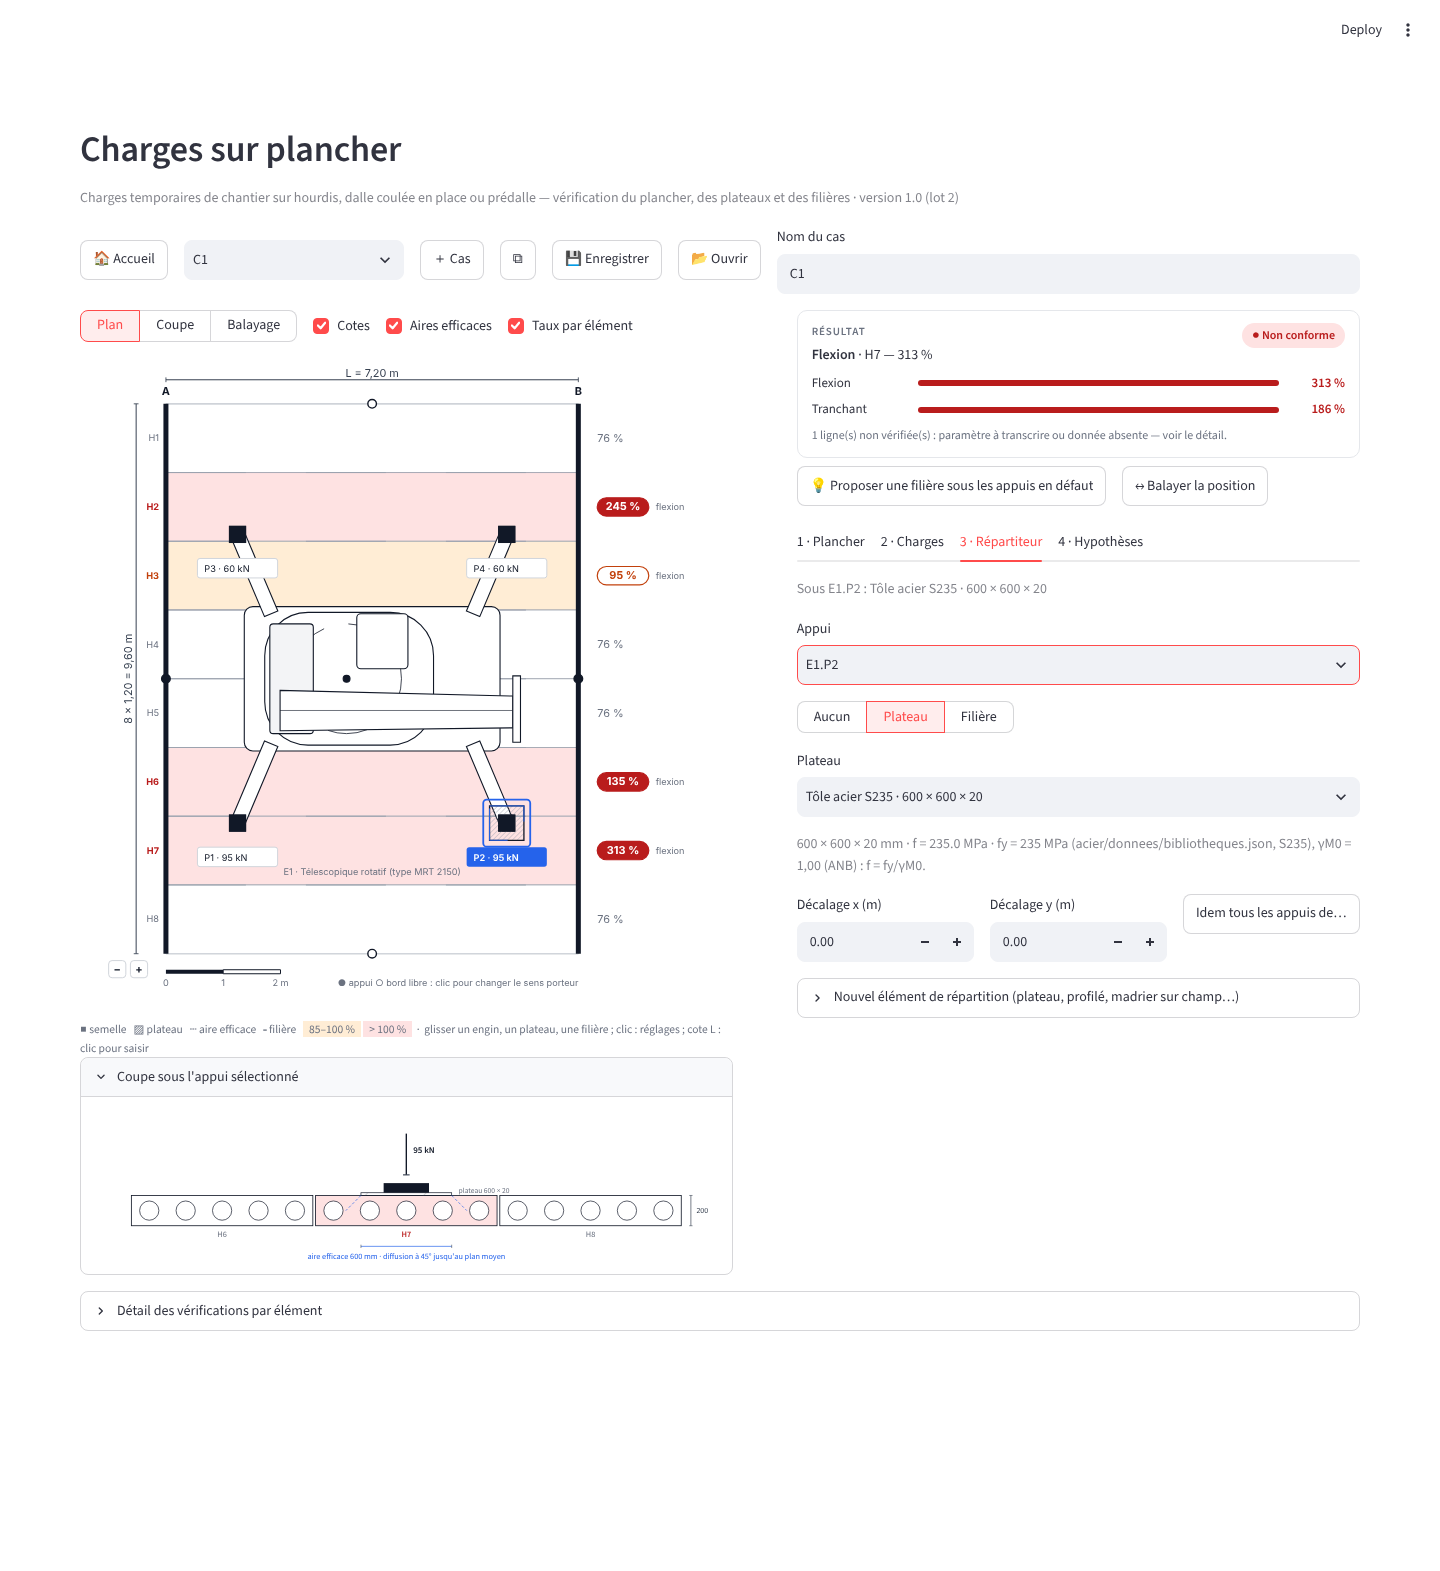
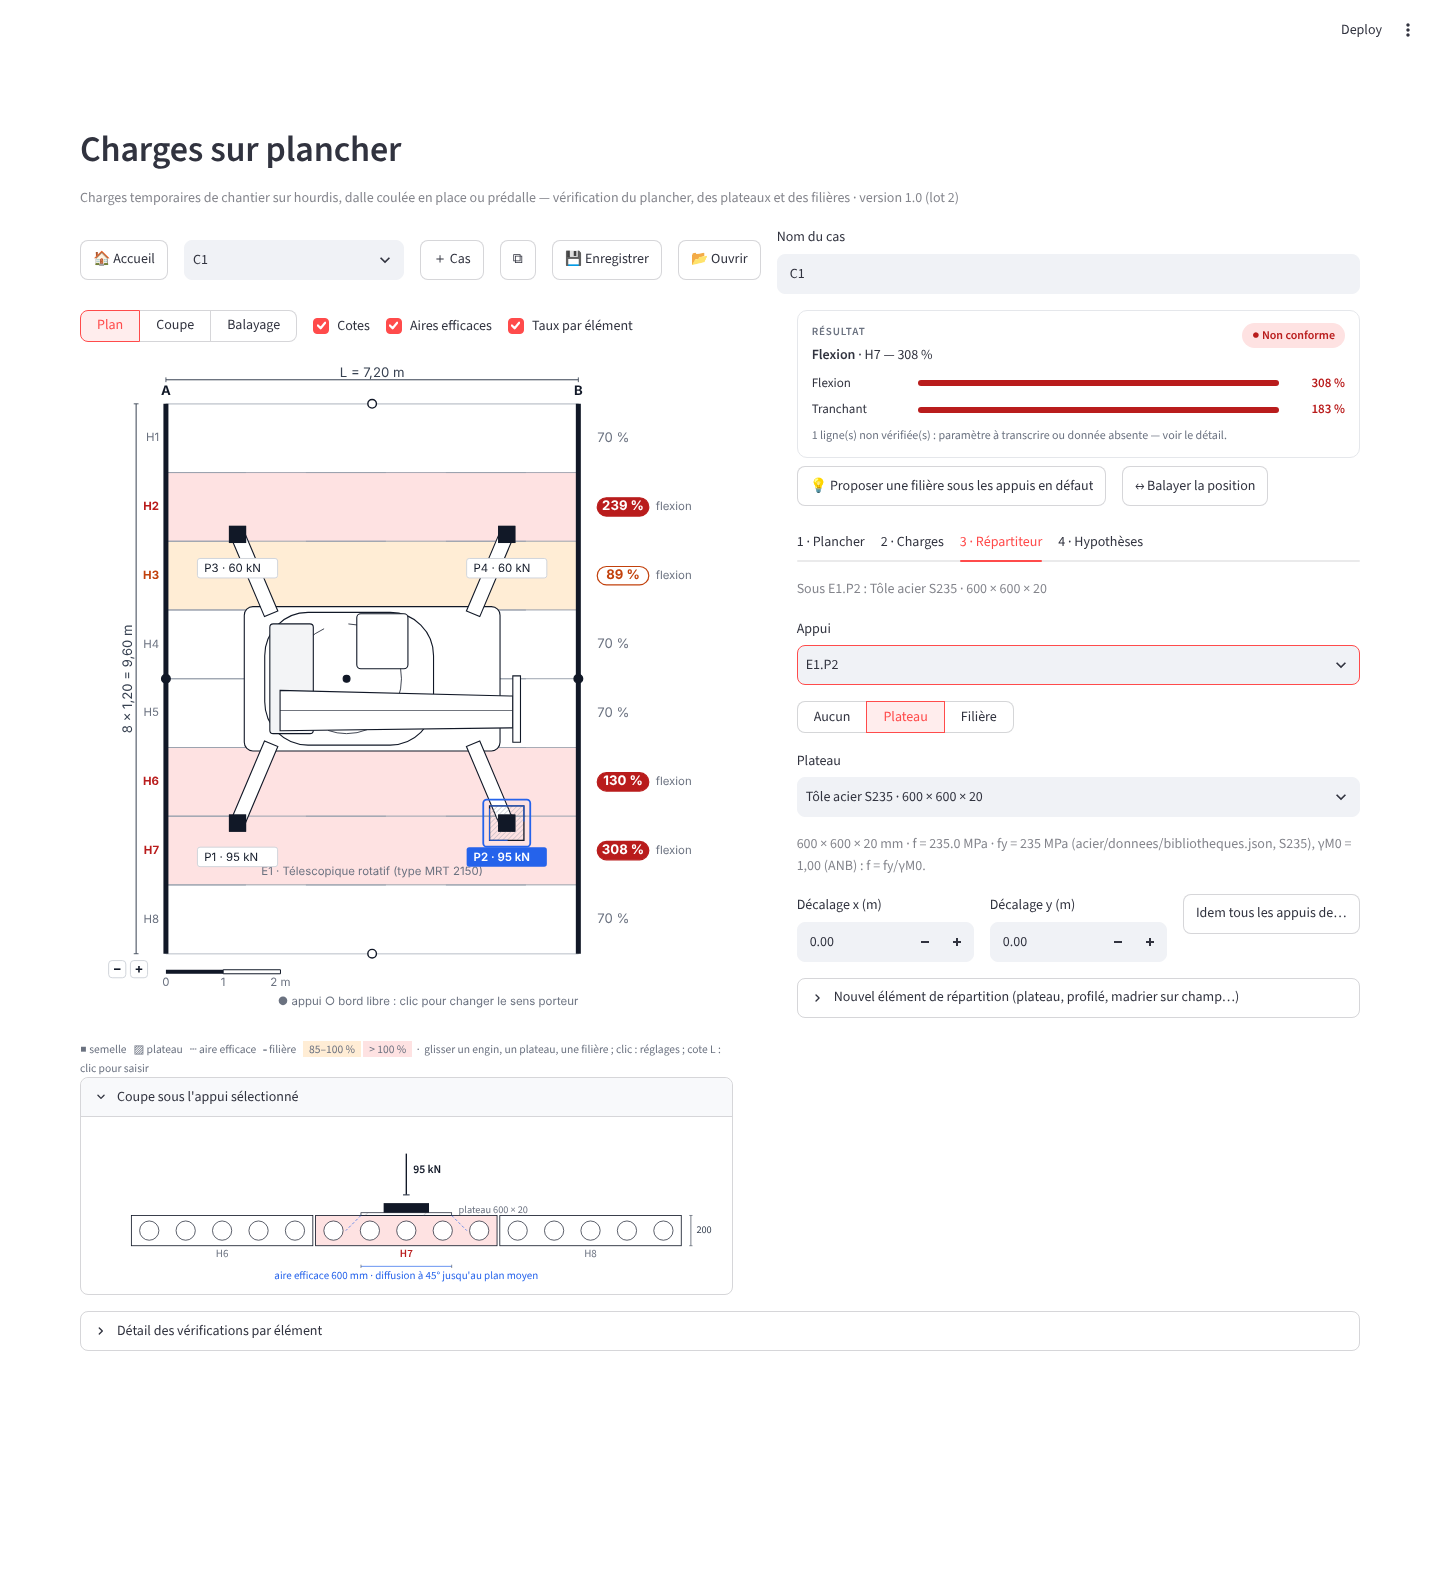
Charges sur plancher : captures finales PC / tablette / téléphone sur la règle P-2, glisser du harnais à l'échelle du plan
Les trois images de docs/plancher/images (ecran_pc, ecran_tablette,
ecran_telephone) sont recapturées sur le code final : taux à l'ELU
γG/γQ, textes agrandis, légende des appuis sous l'échelle, fiche de
hourdis. Le jeu complet (sept états × quatre largeurs) est tenu.

tools/captures_plancher.js : le glissement de l'engin vaut 0,8 m du plan
et non 60 px — à 1024 et 390 px, 60 px valaient 1,5 m et un
stabilisateur sortait du plancher (refus légitime du moteur, faux rouge
du harnais, classé « le harnais suit »).

Claude-Session: https://claude.ai/code/session_01LanTzD41YbMBGsnqoqM2dE

diff --git a/tools/captures_plancher.js b/tools/captures_plancher.js
@@ -101,8 +101,13 @@ async function preparer(page, etat) {
     await el.scrollIntoViewIfNeeded(); await page.waitForTimeout(400);
     const bb = await el.boundingBox();
     const cx = bb.x + bb.width / 2, cy = bb.y + bb.height / 2;
+    // le glissement vaut 0,8 m DU PLAN, pas 60 px : à 1024 et 390 px, 60 px valaient 1,5 m et un
+    // stabilisateur sortait du plancher (refus légitime du moteur, faux rouge du harnais, 02/11/2026)
+    const sc = await page.evaluate(() => { const fr = document.querySelector('.st-key-chp_col_dessin iframe');
+      const svg = fr.contentDocument.querySelector('svg'); return svg.getBoundingClientRect().width / svg.viewBox.baseVal.width; });
+    const dx = Math.max(12, Math.round(800 * sc));
     await page.mouse.move(cx, cy); await page.mouse.down();
-    await page.mouse.move(cx + 30, cy, { steps: 8 }); await page.mouse.move(cx + 60, cy, { steps: 8 });
+    await page.mouse.move(cx + dx / 2, cy, { steps: 8 }); await page.mouse.move(cx + dx, cy, { steps: 8 });
     await page.mouse.up();
     await settle(page, 3500);
     await ouvrirEtape(page, '2 · Charges');

diff --git a/docs/plancher/CHARGES_PLANCHER.md b/docs/plancher/CHARGES_PLANCHER.md
@@ -229,6 +229,10 @@ plan garde une largeur minimale lisible et le conteneur du composant défile hor
 600 × 600 × 20 sous P2. Les valeurs de résistance (M_Rd 60 kN·m, V_Rd 80 kN) sont des valeurs
 d'ESSAI du harnais, pas un catalogue.*
 
+![Écran tablette](images/ecran_tablette.png)
+
+*Tablette 1024 : le plan tient dans sa colonne (largeur minimale 440 px), textes à 9 px.*
+
 ![Écran téléphone](images/ecran_telephone.png)
 
-*Téléphone 390 : mêmes fonctions, colonnes empilées, plan défilant.*
+*Téléphone 390 : mêmes fonctions, colonnes empilées, plan défilant dans son cadre.*
